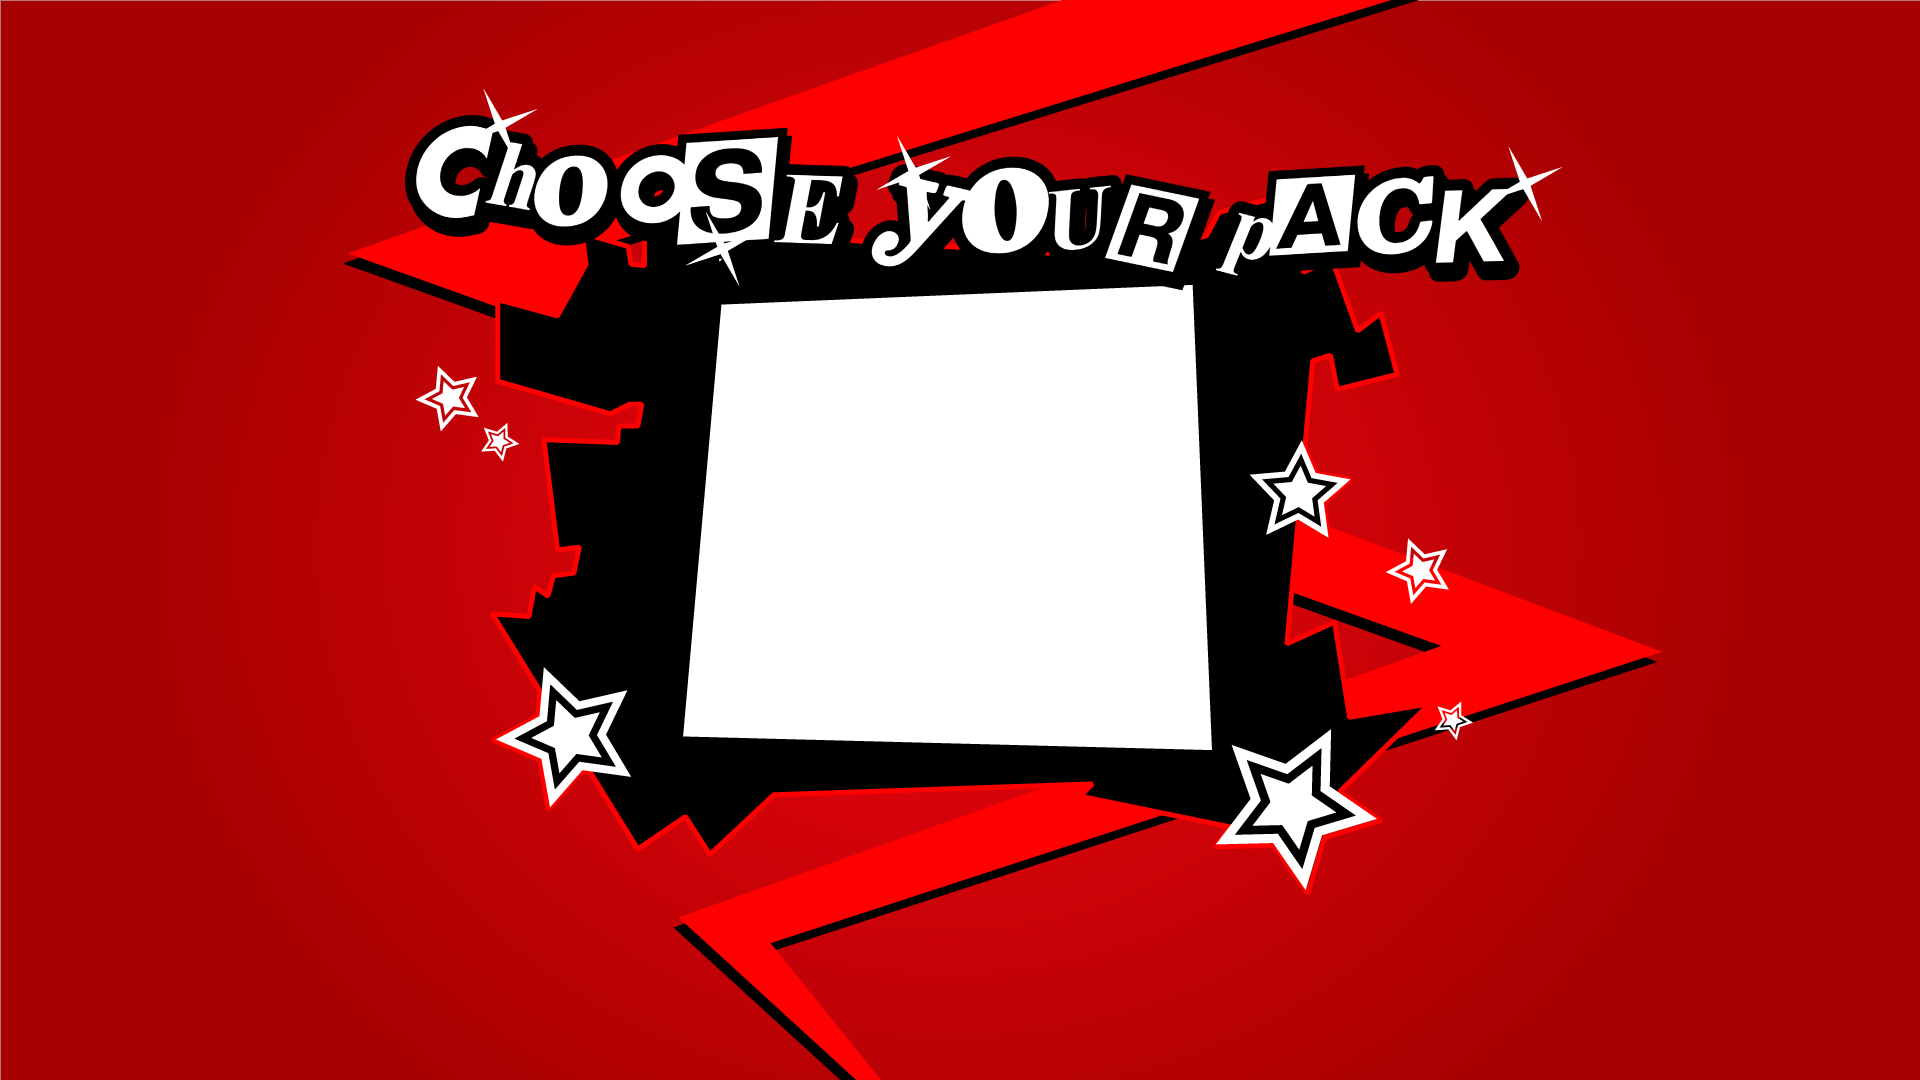
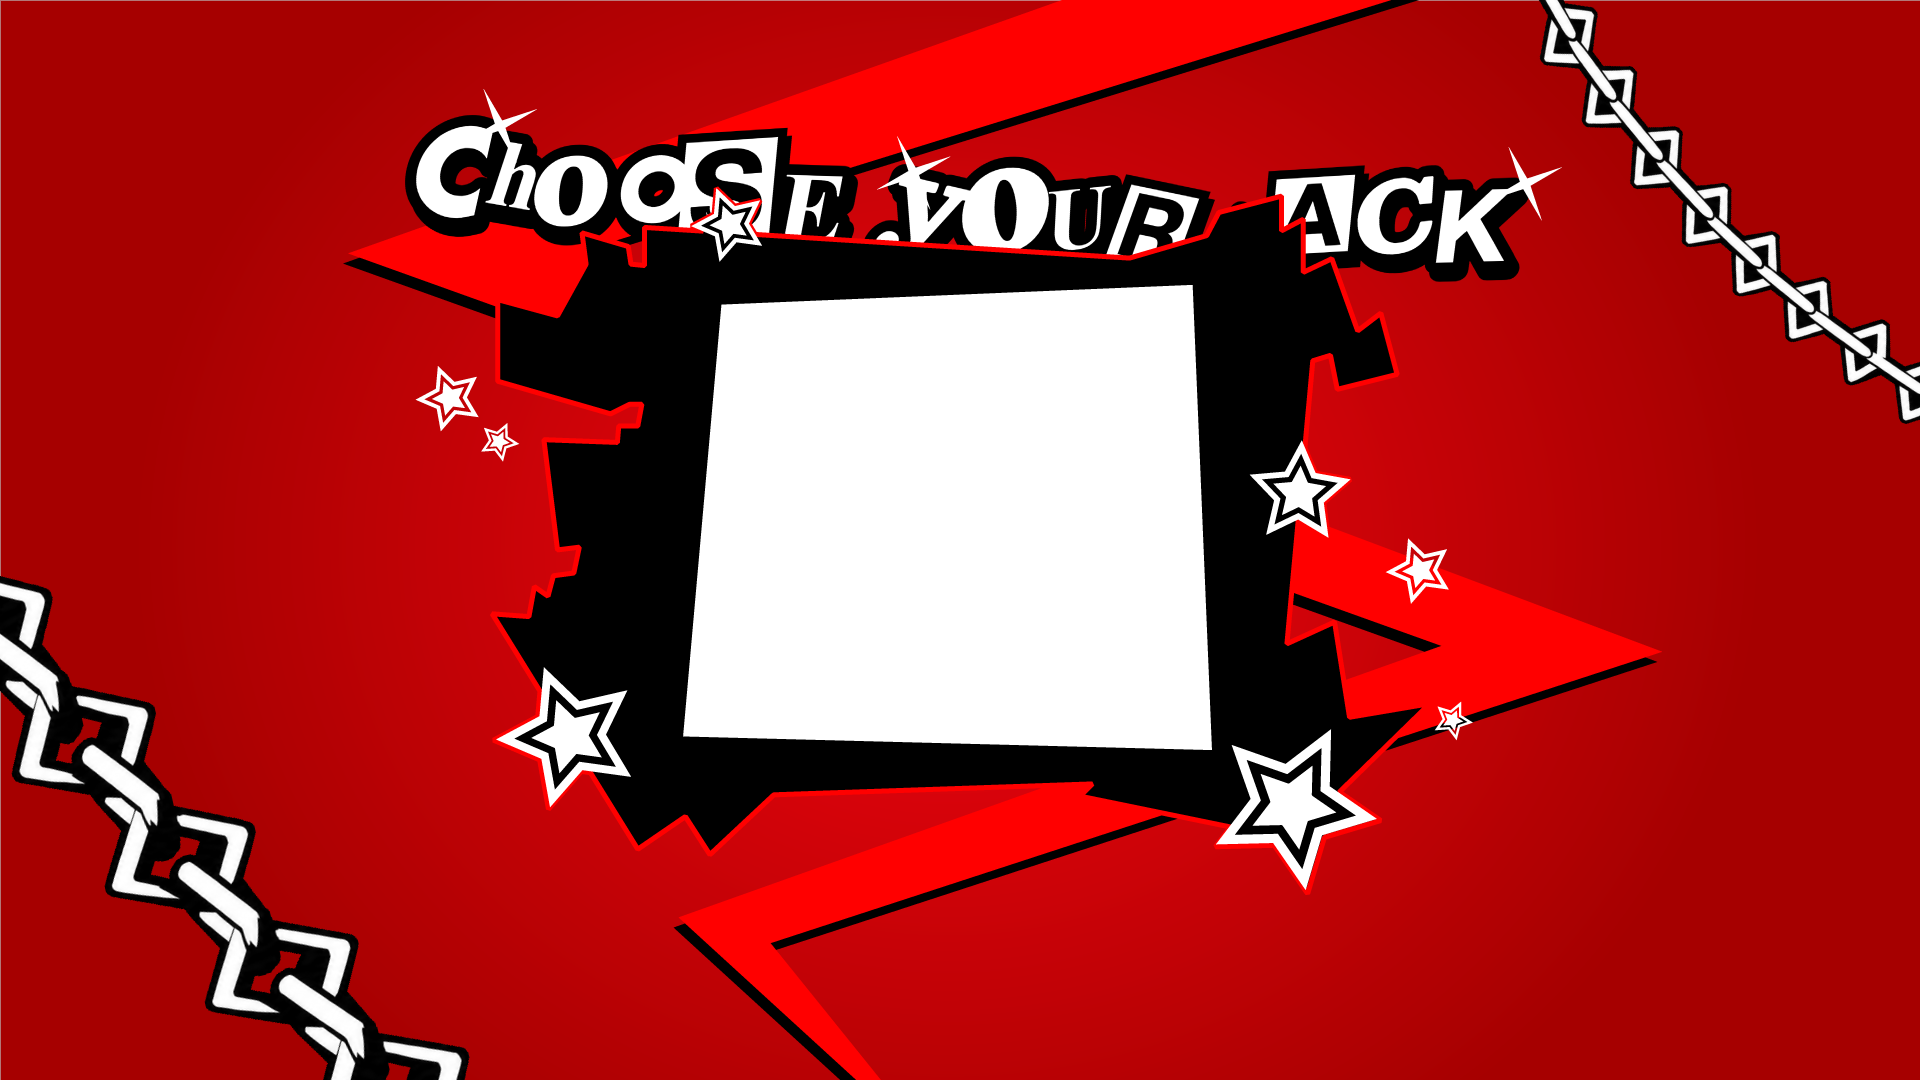
Pack step: chains in two corners, pulled in on entry
Re-exported from the owner's mockup, which gains two chains (placed images)
in the bottom-left and top-right corners.  The build script recognises
placed items as chains (chain1.png, chain2.png, left to right).

Scene.lua draws them in the front layer.  Each chain is cut at the
artboard edge, so it only moves out through its own corner: it is pulled
in after the frame lands, clanks outward and back as it settles, jolts
outward on each pack change and slides back out when a pack is opened.

Lua 5.1 syntax check only; not run in ITGmania.

Claude-Session: https://claude.ai/code/session_01GLRrFcbLp4aJcKk9Zfybe7

Changed region(s): [[0.0, 0.5194, 0.25, 1.0], [0.7812, 0.0, 1.0, 0.3972], [0.3438, 0.1833, 0.6875, 0.275]]

diff --git a/tools/pack-select/build_pack_select_art.py b/tools/pack-select/build_pack_select_art.py
@@ -17,6 +17,8 @@ and size instead:
   path 60-90 px                          -> sparkle.png (all share a shape)
   group 30-90 px                         -> star.png (the largest; smaller
                                             ones are the same star scaled)
+  placed item (linked image)             -> chainN.png, left to right (the
+                                            chains; cut at the artboard edge)
   text frames                            -> ignored (the theme draws the name)
 Anything else is reported and left out.
 
@@ -61,6 +63,8 @@ def classify(entry):
         return "bg"
     if kind == "RasterItem":
         return "title"
+    if kind == "PlacedItem":
+        return "chain"
     if kind == "GroupItem" and w > 1200:
         return "stripes"
     if kind == "GroupItem" and 800 <= w <= 1100:
@@ -141,6 +145,10 @@ def main():
     for entry in groups["star"]:
         im, c = crop(load(entry))
         layout.append("star     at %7.1f %7.1f  zoom %.2f" % (c[0], c[1], im.width / float(star.width)))
+
+    chains = sorted(groups.get("chain", []), key=lambda e: e["bounds"][0])
+    for n, entry in enumerate(chains, 1):
+        single("chain%d" % n, entry)
 
     with open(os.path.join(ART, "layout.txt"), "w") as f:
         f.write("\n".join(layout) + "\n")
